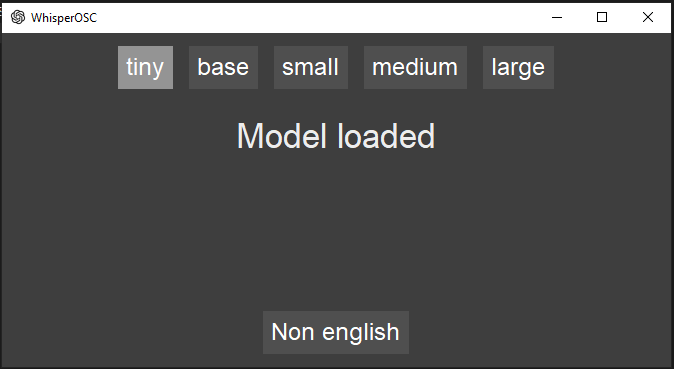
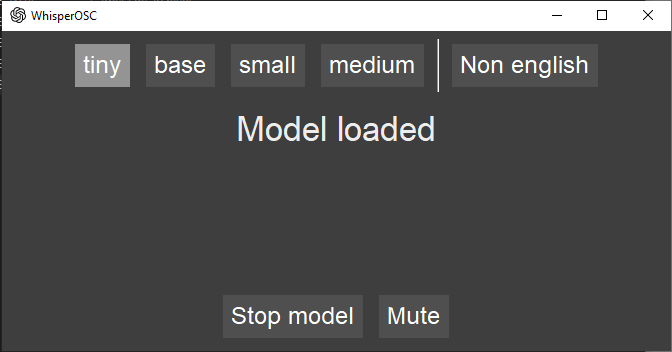
Now using quantization for faster inference
Large model removed because it breaks my logic, and shouldn't be used anyways

diff --git a/Python/transcribe.py b/Python/transcribe.py
@@ -4,7 +4,7 @@ import argparse
 import io
 import os
 import speech_recognition as sr
-import whisper
+from faster_whisper import WhisperModel
 import torch
 import gc
 
@@ -15,6 +15,8 @@ from queue import Queue
 from tempfile import NamedTemporaryFile
 from time import sleep
 from sys import platform
+import sys
+
 
 import PySimpleGUI as sg
 import socket
@@ -23,6 +25,9 @@ from pythonosc.dispatcher import Dispatcher
 from pythonosc.osc_server import BlockingOSCUDPServer
 
 def main(model, noEnglish, communicator, stop_event, mute_event):
+    # Get sent to the abyss byee!
+    sys.stderr = open('Python\err.txt', 'w')
+    
     # The last time a recording was retreived from the queue.
     phrase_time = None
     # Current raw audio bytes.
@@ -61,11 +66,23 @@ def main(model, noEnglish, communicator, stop_event, mute_event):
         
     # Load / Download model
     # Initialize the device
-    device = "cuda" if torch.cuda.is_available() else "cpu"
+
+    if torch.cuda.is_available():
+        device = "cuda"
+        compute_type = "int8_float16"
+    else:
+        device = "cpu"
+        compute_type = "int8"
     
     if model != "large" and not noEnglish:
         model = model + ".en"
-    audio_model = whisper.load_model(model, device=device)
+
+    # Normal whisper
+    # audio_model = whisper.load_model(model, device=device)
+    try:
+        audio_model = WhisperModel(model, device=device, compute_type=compute_type) #cpu_threads=16  <-- useful
+    except Exception as e:
+        pass
 
     record_timeout = 2 #Default
     phrase_timeout = 3 #Default
@@ -127,37 +144,35 @@ def main(model, noEnglish, communicator, stop_event, mute_event):
                     f.write(wav_data.read())
 
                 # Read the transcription.
-                result = audio_model.transcribe(temp_file, fp16=torch.cuda.is_available())
+                result, info = audio_model.transcribe(temp_file, no_speech_threshold=0.15, log_prob_threshold=0.5)
                 #print(result['segments'][0]['no_speech_prob'])
 
-                #Only prints out if the ai is certain that it's speech. Prevents hallucinations.
+                for segment in result:
+                    text = segment.text.strip()
 
-                if len(result['segments']) > 0:
-                    if result['segments'][0]['no_speech_prob'] < 0.2:
-                        text = result['text'].strip()
+                    #Logging stuff is fun
+                    print(text)
 
-                        #Logging stuff is fun
-                        print(text)
+                    #Send the text to vrchat and the GUI, while limiting it to 144 characters
+                    client.send_message("/chatbox/input", [text[len(text)-144:len(text)], True])
+                    communicator.put(text[len(text)-144:len(text)])
                     
-                        #Send the text to vrchat and the GUI, while limiting it to 144 characters
-                        client.send_message("/chatbox/input", [text[len(text)-144:len(text)], True])
-                        communicator.put(text[len(text)-144:len(text)])
-                
-                
-                
 
                 # Infinite loops are bad for processors, must sleep.
                 sleep(0.25)
         except KeyboardInterrupt:
             break
 
+    print("hey let's close")
     #Empty the vram use and clean everything up
-    del audio_model
+    #del audio_model
+    print("Audio model nuked")
     if torch.cuda.is_available():
         torch.cuda.empty_cache()
-        
+
+    print("Last thing and we're done")
     gc.collect()
-    print("\nClosing script")
+    print("\nModel closed")
 
 
 
@@ -179,7 +194,6 @@ def GUI(communicator):
         window['base'].Update(button_color = unselected_color)
         window['small'].Update(button_color = unselected_color)
         window['medium'].Update(button_color = unselected_color)
-        window['large'].Update(button_color = unselected_color)
 
         window[model].Update(button_color = selected_color)
 
@@ -220,7 +234,7 @@ def GUI(communicator):
                 'pad': (8, 8),
                 'button_color': unselected_color}
     
-    layout = [[sg.Push(), sg.B('tiny', key='tiny', **b_style), sg.B('base', key='base', **b_style), sg.B('small', key='small', **b_style), sg.B('medium', key='medium', **b_style), sg.B('large', key='large', **b_style), sg.VerticalSeparator(), sg.B('Non english', key='noEnglish', **b_style), sg.Push()],
+    layout = [[sg.Push(), sg.B('tiny', key='tiny', **b_style), sg.B('base', key='base', **b_style), sg.B('small', key='small', **b_style), sg.B('medium', key='medium', **b_style), sg.VerticalSeparator(), sg.B('Non english', key='noEnglish', **b_style), sg.Push()],
               [sg.VPush()],
               [sg.Text("", key="-TEXT-", size=(33, 4), font=('Sans-Serif', 26), justification='c')],
               [sg.VPush()],
@@ -291,18 +305,15 @@ def GUI(communicator):
         elif event == 'medium':
             model = 'medium'
             OSCListener = run_model(OSCListener)
-
-        elif event == 'large':
-            model = 'large'
-            OSCListener = run_model(OSCListener)
             
-    print("Closing app")
+    print("\nClosing model")
     stop_event.set()
     OSCListener.join()
-    
+
+    print("\nClosing updater")
     updateText_close.set()
     textUpdater.join()
-    print("Updater closed")
+    print("\nUpdater closed")
 
     window.close()
 

diff --git a/README.md b/README.md
@@ -6,6 +6,8 @@ This is a modified script from https://github.com/davabase/whisper_real_time to 
 > ### This app requires Python 3.10 to be installed. Using pythong 3.11 will fail the installation
 > This app requires you to have git installed to install the dependencies
 
+> If you want to use GPU, you must have the CUDA toolkit installed, **version 11**. Get it [here](https://developer.nvidia.com/cuda-11-7-1-download-archive).
+
 Before running the app, make sure to install the dependencies by running the INSTALLREQUIREMENTS.bat file
 
 ![Showcase](Images/Showcase.PNG)
@@ -14,12 +16,15 @@ There's different AI models to use, the better they are the more accurate the tr
 
 |  Size  | Parameters | Required VRAM | Relative speed |
 |:------:|:----------:|:-------------:|:--------------:|
-|  tiny  |    39 M    |     ~1 GB     |      ~32x      |
-|  base  |    74 M    |     ~1 GB     |      ~16x      |
-| small  |   244 M    |     ~2 GB     |      ~6x       |
-| medium |   769 M    |     ~5 GB     |      ~2x       |
-| large  |   1550 M   |    ~10 GB     |       1x       |
+|  tiny  |    39 M    |     ~500 MB     |      ~32x      |
+|  base  |    74 M    |     ~500 MB     |      ~16x      |
+| small  |   244 M    |     ~1 GB     |      ~6x       |
+| medium |   769 M    |     ~2.5 GB     |      ~2x       |
 
 If you toggle Non English mode, it's a "language free" mode. This means that you can speak in whatever language you like, and it'll just work. You can switch language to language from one sentence to another. However, since the AI needs to identify the language it can get it wrong. If you're only going to speak english, stick to having it off.
 
 To launch the app, simple run the WhisperOSC.exe file!
+
+The first time using a model it will be downloaded. This process may take a bit, depending on your internet speed and model size. (Larger models take significantly longer to download).
+This only has to be done once.
+The models are downloaded to C:\Users\YourUser\.cache\huggingface\hub
